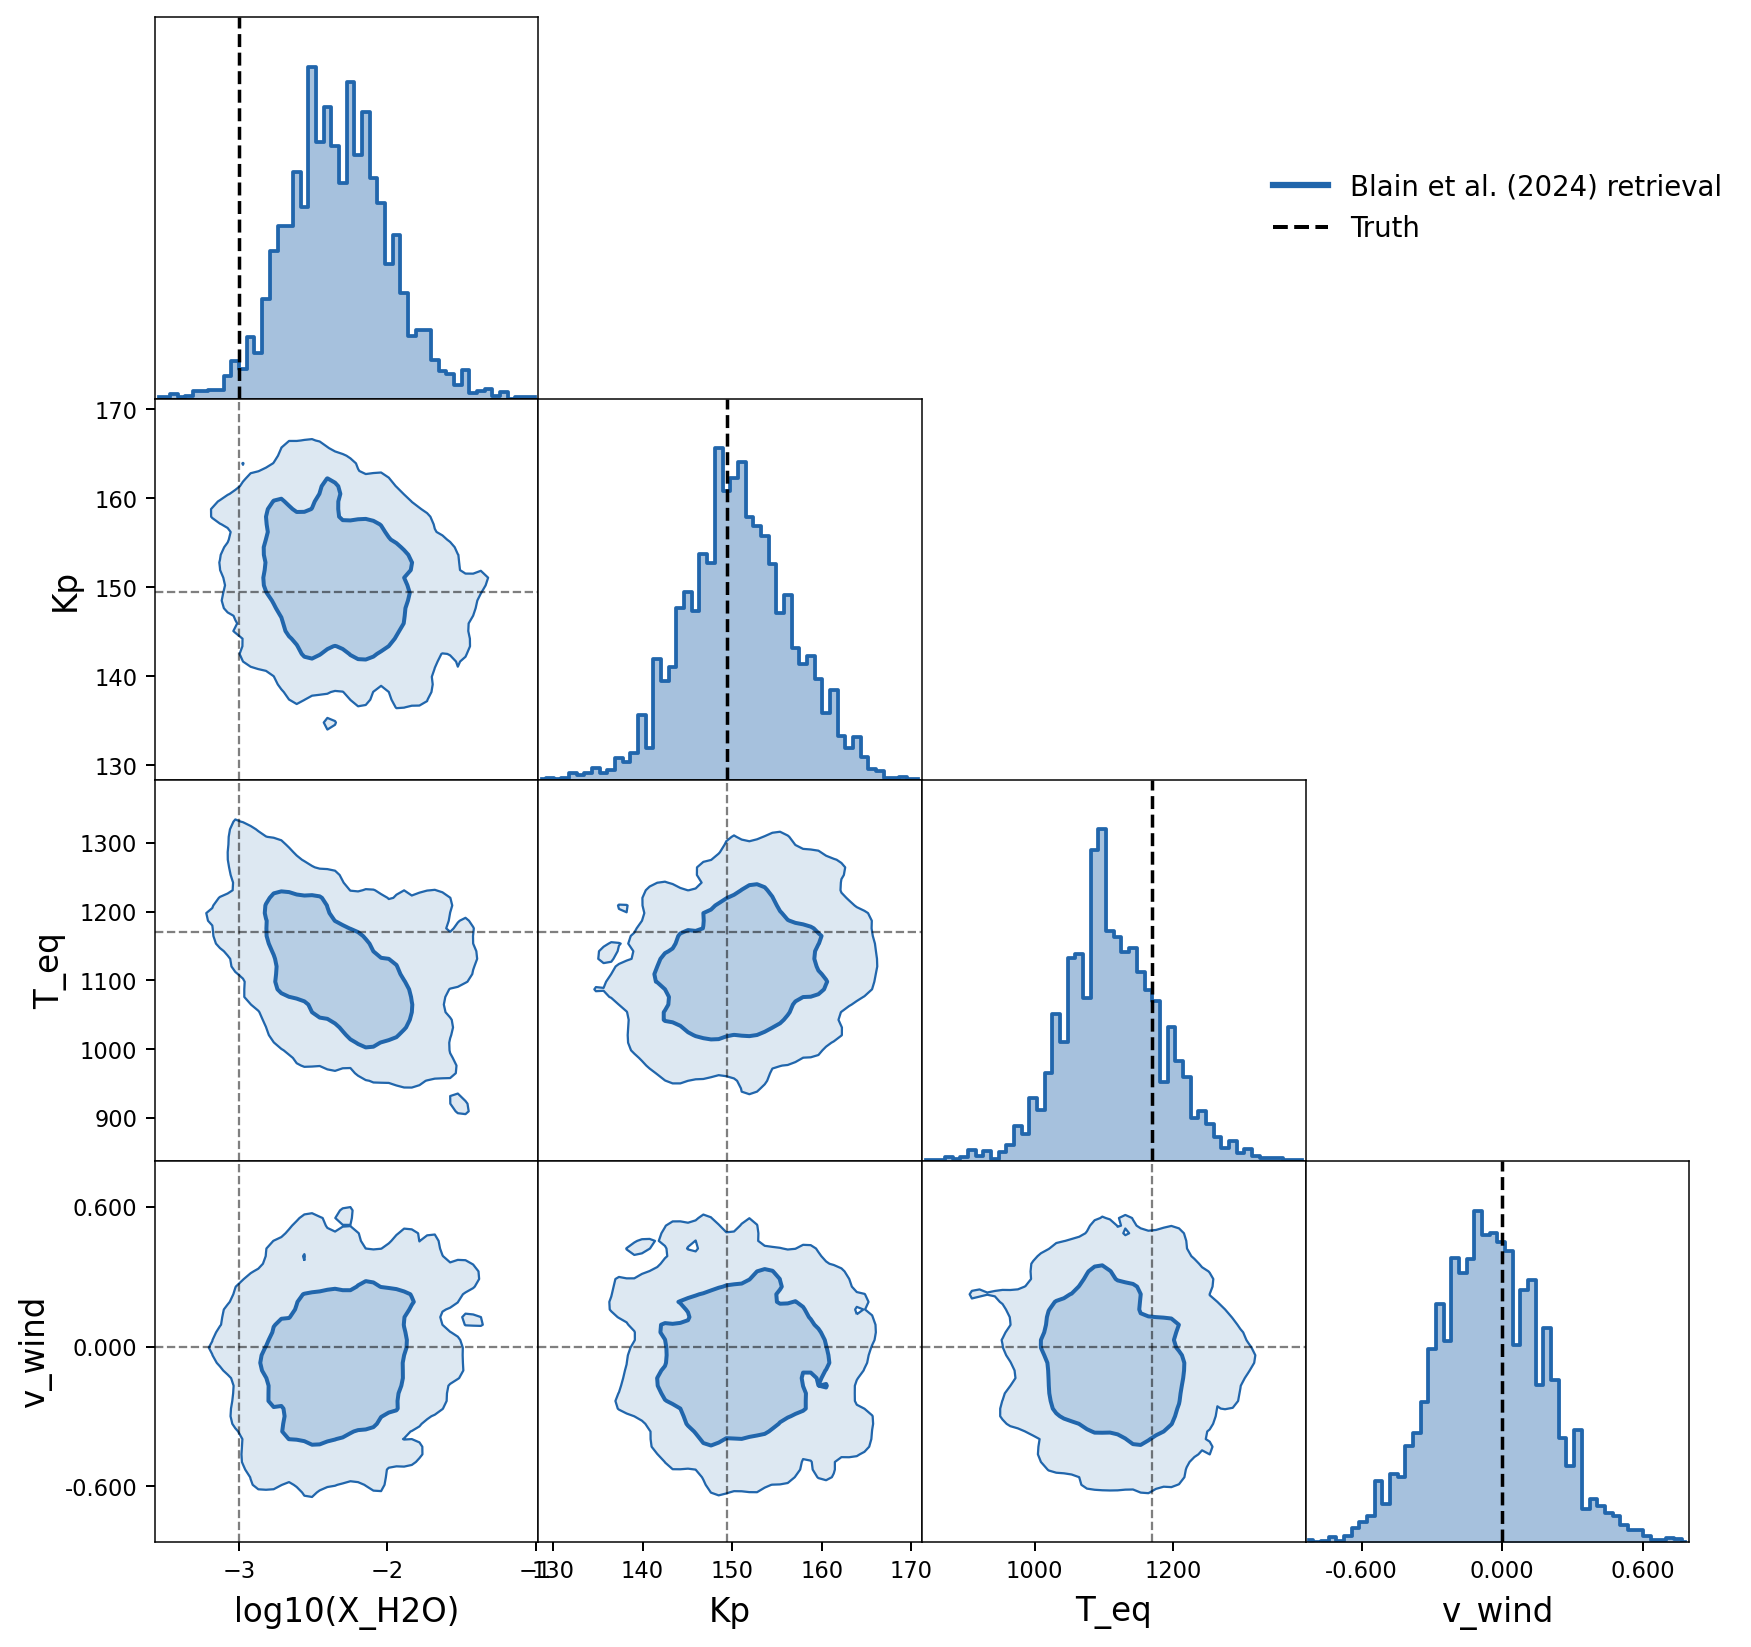
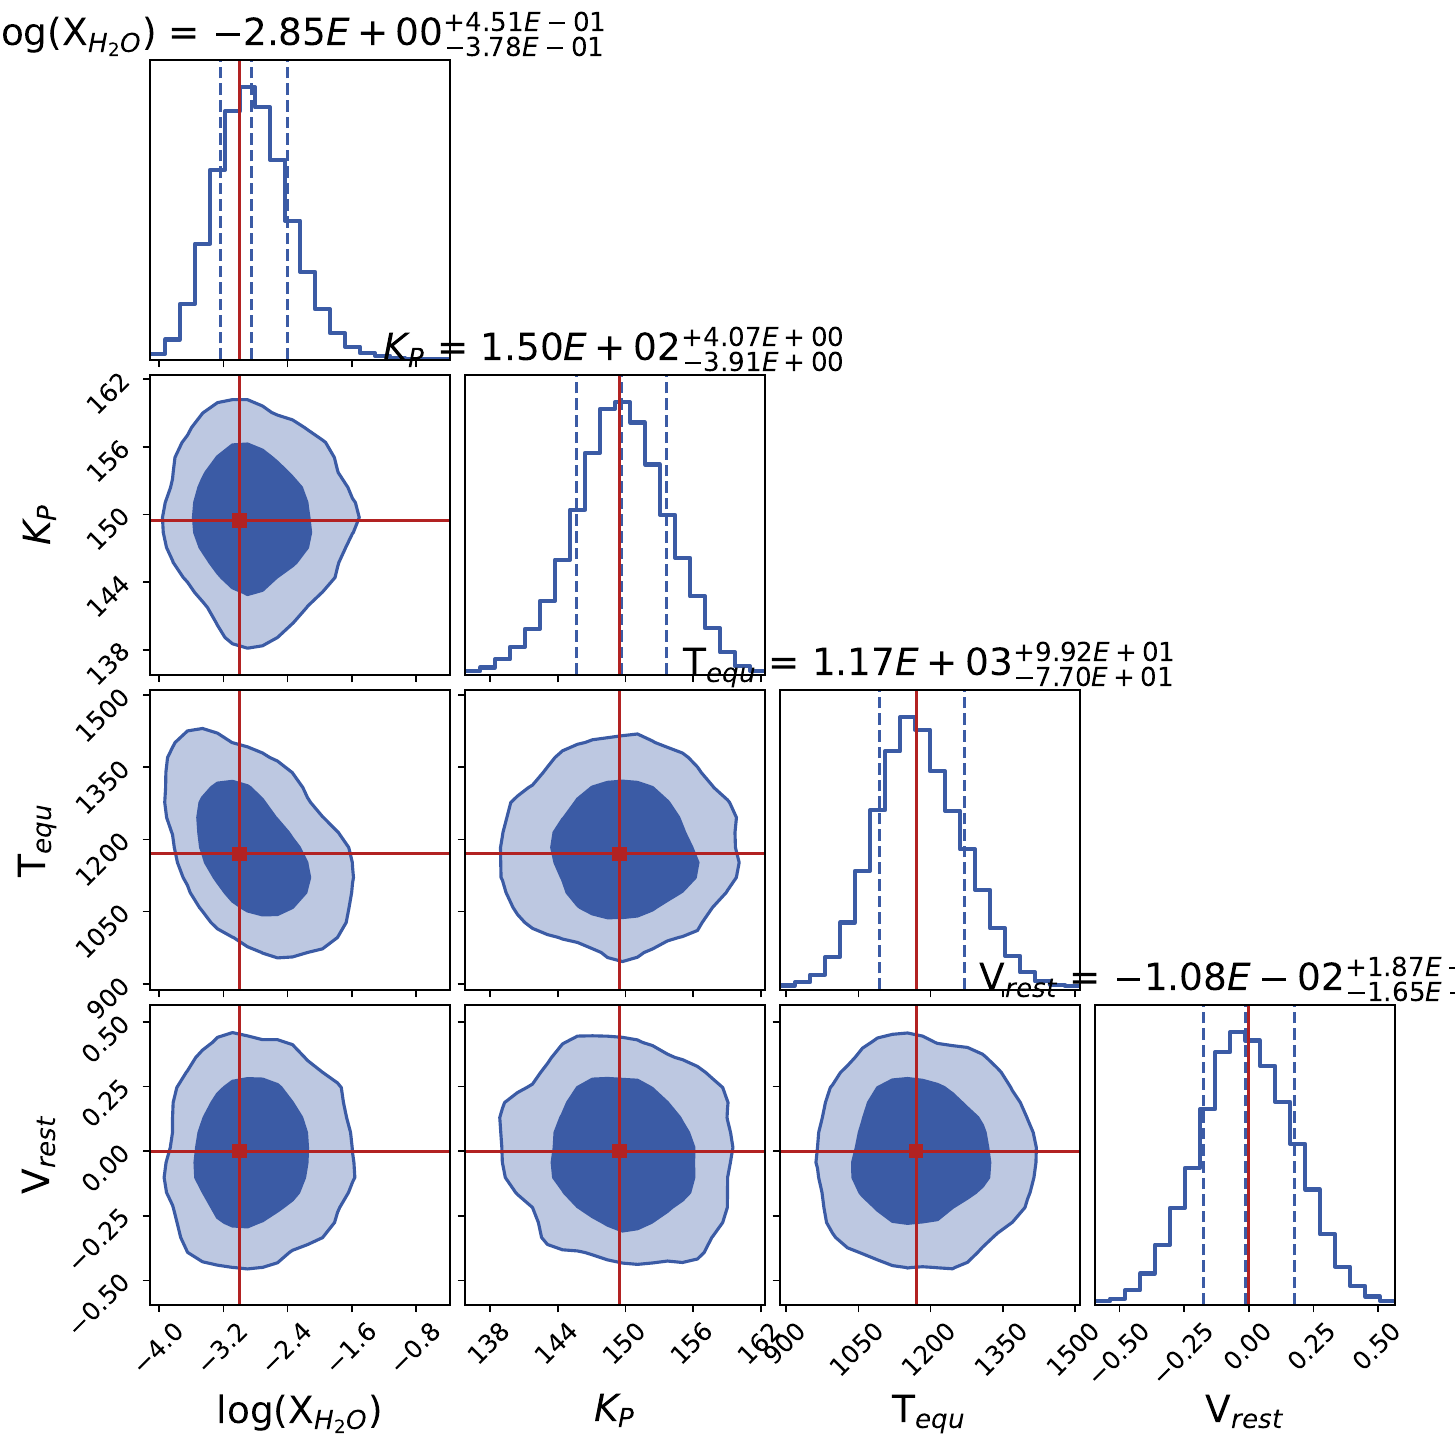
Tutorial 6: rerun 1D Blain24 retrieval, rewrite text, and style the corner plot

Changed region(s): [[0.0, 0.0, 0.9897, 0.9897], [0.7423, 0.0928, 0.9897, 0.1546], [0.4021, 0.0, 0.433, 0.0309]]

diff --git a/src/exoplore/core/simulator.py b/src/exoplore/core/simulator.py
@@ -5526,6 +5526,51 @@ class ExoploreSimulator:
                                             [np.log10(_mini_b7["vmr"][2]),
                                              _mini_b7["K_p"], _mini_b7["T_equ"],
                                              _mini_b7["V_wind"], 1.0])
+
+                            # Zoom each axis to the posterior bulk (weighted
+                            # 0.3 to 99.7 percentile with padding), so the
+                            # corner is not stretched to the full prior range.
+                            _d9m = _dat9[_mask9, :]
+                            _w9m = _wts9[_mask9]
+                            _truth_for_range = (
+                                _truths_g229
+                                if _mini_b7["Ret_dim"] in (
+                                    "1D_Gibson22", "Blain24_beta")
+                                else _truths_1d9)
+
+                            def _wrange9(_col, _tv=None):
+                                _o = np.argsort(_col)
+                                _c = _col[_o]
+                                _cw = np.cumsum(_w9m[_o])
+                                _cw = _cw / _cw[-1]
+                                _lo = np.interp(0.003, _cw, _c)
+                                _hi = np.interp(0.997, _cw, _c)
+                                if _tv is not None and np.isfinite(_tv):
+                                    _lo = min(_lo, _tv)
+                                    _hi = max(_hi, _tv)
+                                _pad = 0.10 * (_hi - _lo) if _hi > _lo else 1.0
+                                return (_lo - _pad, _hi + _pad)
+
+                            _ranges9 = [
+                                _wrange9(
+                                    _d9m[:, _k],
+                                    (_truth_for_range[_k]
+                                     if _truth_for_range is not None
+                                     and _k < len(_truth_for_range) else None))
+                                for _k in range(_d9m.shape[1])]
+
+                            # Shared "pretty" corner style (filled blue
+                            # contours), matching the multi-method comparison
+                            # plots.
+                            _cstyle9 = dict(
+                                color="#3b5ba5",
+                                fill_contours=True,
+                                levels=(0.68, 0.95),
+                                smooth=1.0, smooth1d=1.0,
+                                range=_ranges9,
+                                contour_kwargs={"linewidths": 1.5},
+                                hist_kwargs={"linewidth": 2})
+
                             if _mini_b7["Ret_dim"] == "1D":
                                 _fig9 = _corner.corner(
                                     _dat9[_mask9, :],
@@ -5535,9 +5580,10 @@ class ExoploreSimulator:
                                     title_fmt=".2E",
                                     truths=_truths_1d9,
                                     quantiles=[0.16, 0.5, 0.84],
-                                    color="k", truth_color="firebrick",
+                                    truth_color="firebrick",
                                     label_kwargs={"fontsize": 18},
-                                    title_kwargs={"fontsize": 18})
+                                    title_kwargs={"fontsize": 18},
+                                    **_cstyle9)
                             elif _mini_b7["Ret_dim"] in ["1D_Gibson22", "Blain24_beta"]:
                                 _fig9 = _corner.corner(
                                     _dat9[_mask9, :],
@@ -5547,9 +5593,10 @@ class ExoploreSimulator:
                                     title_fmt=".2E",
                                     truths=_truths_g229,
                                     quantiles=[0.16, 0.5, 0.84],
-                                    color="k", truth_color="firebrick",
+                                    truth_color="firebrick",
                                     label_kwargs={"fontsize": 18},
-                                    title_kwargs={"fontsize": 18})
+                                    title_kwargs={"fontsize": 18},
+                                    **_cstyle9)
                             else:
                                 _fig9 = _corner.corner(
                                     _dat9[_mask9, :],
@@ -5558,9 +5605,9 @@ class ExoploreSimulator:
                                     plot_datapoints=False,
                                     title_fmt=".2E",
                                     quantiles=[0.16, 0.5, 0.84],
-                                    color="k",
                                     label_kwargs={"fontsize": 18},
-                                    title_kwargs={"fontsize": 18})
+                                    title_kwargs={"fontsize": 18},
+                                    **_cstyle9)
                             for _ax9 in _fig9.get_axes():
                                 _ax9.tick_params(axis="both", **_tick9)
                             _plt9.savefig(

diff --git a/docs/tutorial.md b/docs/tutorial.md
@@ -652,74 +652,68 @@ The simulator writes diagnostic products both per individual night and for the c
 
 ## Tutorial 6: Enable Bayesian retrieval
 
-> **Approximate run time:** ~15 to 30 min (single order, one night, plus a nested-sampling retrieval at 200 live points; the retrieval dominates).
+> **Approximate run time:** ~28 min on an Apple Mac Studio M2 Ultra (64 GB RAM), running `configs/hd189733b_carmenes_retrieval_blain24_noiseless.json` (CARMENES NIR, order 23, noiseless, Blain24 pipeline and log-likelihood, nested sampling at 200 live points). The retrieval dominates the total; the forward-model blocks that precede it are fast for a single order.
 
 :::{note}
-**From detection to atmospheric constraints: why retrieval is needed**
+**From detection to atmospheric constraints**
 
-A peak in the Kp-Vsys map tells you that a molecular species is present and gives its approximate orbital and atmospheric velocity. What it does not give you is a formal posterior probability distribution over atmospheric parameters: abundances, temperature structure, or chemical composition ratios. To go from "H₂O detected at 7σ" to "log₁₀(H₂O) = -2.4 ± 0.3" requires a Bayesian retrieval.
+A peak in the Kp-Vsys map establishes that a species is present and yields its approximate orbital and rest-frame velocity. It does not, however, provide a posterior probability distribution over the atmospheric parameters, that is, the abundances, the temperature structure, or the chemical composition ratios. To go from a detection to a constraint of the form log₁₀(X<sub>H₂O</sub>) = -4.2 ± 0.3 we must perform a Bayesian retrieval.
 
-In the retrieval framework, the forward model (petitRADTRANS spectrum at a given set of parameters) is Doppler-shifted, run through the same preparation pipeline as the data, and compared to the data via a log-likelihood function. A nested sampler (MultiNest) or MCMC (emcee) explores the parameter space and maps the posterior. The critical requirement is that the forward model is prepared identically to the data (this is the pipeline bias problem discussed above).
+In the retrieval, a petitRADTRANS forward model is computed for a trial set of parameters, Doppler-shifted to each exposure, and processed through the same preparation pipeline as the data. It is then compared to the data through a log-likelihood function, and a nested sampler (MultiNest) or an MCMC (emcee) explores the parameter space to map the posterior. We caution that the forward model must be prepared identically to the data at every likelihood evaluation. This is the pipeline-bias requirement, and it is the subject of Tutorial 7.
 
-The log-likelihood formulations available in EXoPLORE (BL19, Blain24, Gibson22) differ in how they treat per-pixel noise and model amplitude scaling. For polynomial-based pipelines with reliable per-pixel uncertainties, the Blain24 formulation provides a natural default, although the most suitable choice depends on the dataset (see the [Concepts primer](concepts.md#5-from-cross-correlation-to-a-likelihood)).
+Three log-likelihood formulations are available (BL19, Blain24, Gibson22), which differ in how they treat the per-pixel noise and the model amplitude scaling. For a polynomial pipeline with reliable per-pixel uncertainties the Blain24 formulation is a natural choice, although the most suitable formulation depends on the dataset (see the [Concepts primer](concepts.md#5-from-cross-correlation-to-a-likelihood)).
 :::
 
-After verifying a detection in the forward-model run, the Bayesian retrieval can be enabled within the **same simulation** by setting `retrieval.enabled: true`. The retrieval runs at the end of the simulation, after all matrices have been built and the CCF has been computed. Therefore, it does not require a separate run or re-loading of saved files.
+The retrieval is enabled within the **same simulation** by setting `retrieval.enabled: true`. It runs at the end of the simulation, after the matrices have been built and the cross-correlation has been computed, and reads those products directly from memory. Consequently, it requires neither a separate run nor the reloading of saved files. To repeat a retrieval on a past simulation, the full simulation must be re-run, since the intermediate matrices are not reloaded from disk.
 
-The example below uses `"log_likelihood": "Blain24"`, which is the log-likelihood formulation from Blain, Sánchez-López & Mollière (2024, AJ, 167, 179). Blain24 accounts for per-order noise scaling and is the recommended choice for most retrieval configurations in EXoPLORE.
+The example below uses the Blain24 log-likelihood (Blain, Sánchez-López & Mollière 2024, AJ, 167, 179), which accounts for the per-order noise scaling:
 
 ```json
 "retrieval": {
   "enabled": true,
   "sampler": "nested_sampling",
   "log_likelihood": "Blain24",
-  "dimensionality": "1D_CtoO_met",
+  "dimensionality": "1D",
   "live_points": 200
 }
 ```
 
-The `live_points` parameter controls the number of active sample points that MultiNest maintains during nested sampling. Higher values produce more accurate posteriors and more reliable evidence estimates, but runtime scales roughly linearly with `live_points`. A value of 200 is a reasonable starting point for a 4-parameter retrieval; increase to 500 to 1000 for publication-quality results.
-
-This configuration retrieves the C/O ratio and metallicity using the Blain24 log-likelihood. The four supported retrieval modes and their required likelihood are:
+The `dimensionality` field selects the free parameters, and the `log_likelihood` must be compatible with it:
 
 | `dimensionality` | `log_likelihood` | Free parameters |
 |---|---|---|
-| `"1D"` | `"BL19"` or `"Blain24"` | log(VMR), Kp, T_eq, v_wind |
-| `"1D_Gibson22"` | `"Gibson22"` **only** | log(VMR), Kp, T_eq, v_wind, β |
+| `"1D"` | `"BL19"` or `"Blain24"` | log(VMR), Kp, T_eq, v_rest |
+| `"1D_Gibson22"` | `"Gibson22"` **only** | log(VMR), Kp, T_eq, v_rest, β |
 | `"1D_CtoO_met"` | `"BL19"` or `"Blain24"` | C/O, metallicity (EasyChem) |
-| `"1D_extended"` | `"BL19"` or `"Blain24"` | log(VMR) × 6 species, Kp, T_eq, v_wind |
-| `"1D_extended_fast"` | `"BL19"` or `"Blain24"` | log(VMR) × 6 species, T_eq (Kp/v_wind fixed) |
+| `"1D_extended"` | `"BL19"` or `"Blain24"` | log(VMR) × 6 species, Kp, T_eq, v_rest |
+| `"1D_extended_fast"` | `"BL19"` or `"Blain24"` | log(VMR) × 6 species, T_eq (Kp/v_rest fixed) |
 | `"2D"` | `"BL19"` or `"Blain24"` | morning/evening VMR + T_eq |
 
-> **`1D_Gibson22` must be paired with `Gibson22` only.** The β parameter is the noise-scaling degree of freedom that makes Gibson22 physically meaningful (using it with Blain24 or BL19 samples β but never uses it, producing a meaningless posterior). The simulator raises a `ValueError` on invalid combinations.
+We note that `1D_Gibson22` must be paired with `Gibson22`, and no other. The β parameter is the noise-scaling degree of freedom that makes the Gibson22 formulation self-consistent; pairing it with Blain24 or BL19 would sample β without ever using it, yielding a meaningless posterior. The simulator raises a `ValueError` on any invalid combination.
 
-Retrieval dependencies must be installed to that end:
+The `live_points` field sets the number of active points that MultiNest maintains during nested sampling. A larger value produces a more accurate posterior and a more reliable evidence estimate, at a run time that grows roughly linearly with it. In our experience 200 is adequate for a four-parameter retrieval, and 500 to 1000 is appropriate for publication-quality posteriors. The full run time is typically one to four hours, depending on `live_points`, the number of orders, and the machine.
+
+The retrieval requires three additional dependencies:
 
 ```bash
 pip install pymultinest emcee corner
 ```
 
-`pymultinest` is needed for nested sampling, `emcee` for the MCMC sampler, and `corner` for posterior corner plots. PyMultiNest also requires the compiled MultiNest Fortran library (see its [installation guide](https://github.com/JohannesBuchner/PyMultiNest)).
+Here `pymultinest` provides the nested sampler, `emcee` the MCMC sampler, and `corner` the posterior corner plots. PyMultiNest further requires the compiled MultiNest Fortran library (see its [installation guide](https://github.com/JohannesBuchner/PyMultiNest)).
 
-> **Important:** the retrieval reads the spectral matrices and mask arrays that the forward-model blocks built in memory during the same run. It does not load previously saved NPZ files from disk. To re-run the retrieval on a previous simulation, the full simulation must be re-run (or a retrieval-only entry point must be implemented).
+The MultiNest chain files are written to `<run_name>/matrices/matrices_<run_name>/` and the corner plot to `<run_name>/plots/`. See [docs/outputs.md](outputs.md#retrieval-outputs) for how to read and plot the posteriors.
 
-Typical run time: 1 to 4 hours depending on `live_points`, number of orders, and the machine.
-
-**Retrieval output:** MultiNest chain files are written to `<run_name>/matrices/matrices_<run_name>/` and the corner plot PDF to `<run_name>/plots/`. See [docs/outputs.md](outputs.md#retrieval-outputs) for how to read and plot the posteriors.
-
-A ready-made config for this tutorial (CARMENES NIR, order 23, noiseless, Blain24 pipeline and log-likelihood, `1D_CtoO_met` dimensionality) is provided:
+A ready-to-run config is provided at `configs/hd189733b_carmenes_retrieval_blain24_noiseless.json` (CARMENES NIR, order 23, noiseless, Blain24 pipeline and log-likelihood, `1D` dimensionality):
 
 ```bash
-python -u scripts/run_exoplore.py configs/hd189733b_carmenes_retrieval_cto_met.json --run
+python -u scripts/run_exoplore.py configs/hd189733b_carmenes_retrieval_blain24_noiseless.json --run
 ```
-
-The retrieval produces a corner plot of the marginal and joint posterior distributions. The example below shows a `1D` retrieval (log₁₀(X<sub>H₂O</sub>), K<sub>P</sub>, T<sub>eq</sub>, and v<sub>wind</sub>) of a noiseless CARMENES NIR order, recovering the injected truth values (dashed lines).
 
 ```{figure} figures/tutorial6_retrieval_corner.png
 :width: 75%
 :align: center
 
-Posterior distributions from a Blain24 retrieval of a single noiseless CARMENES NIR order of HD 189733 b. The diagonal panels show the marginal distribution of each parameter and the off-diagonal panels the pairwise joint distributions, with contours at the 68 and 95 per cent credible levels. Dashed lines mark the injected truth values.
+Posterior distributions from a `1D` Blain24 retrieval of a single noiseless CARMENES NIR order (order 23) of HD 189733 b. The free parameters are the logarithmic water volume mixing ratio log₁₀(X<sub>H₂O</sub>), the orbital velocity semi-amplitude K<sub>P</sub>, the equilibrium temperature T<sub>eq</sub>, and the rest-frame velocity v<sub>rest</sub>. The diagonal panels show the marginal distribution of each parameter, and the off-diagonal panels the pairwise joint distributions, with contours at the 68 and 95 per cent credible levels. Red lines mark the injected truth values, and dashed lines the 16th, 50th, and 84th posterior percentiles. All four truths are recovered within the credible intervals: log₁₀(X<sub>H₂O</sub>) = -2.9 ± 0.5, K<sub>P</sub> = 150.0 ± 4.0 km s<sup>-1</sup>, T<sub>eq</sub> = 1170 ± 80 K, and v<sub>rest</sub> = 0.0 ± 0.2 km s<sup>-1</sup>.
 ```
 
 ---
